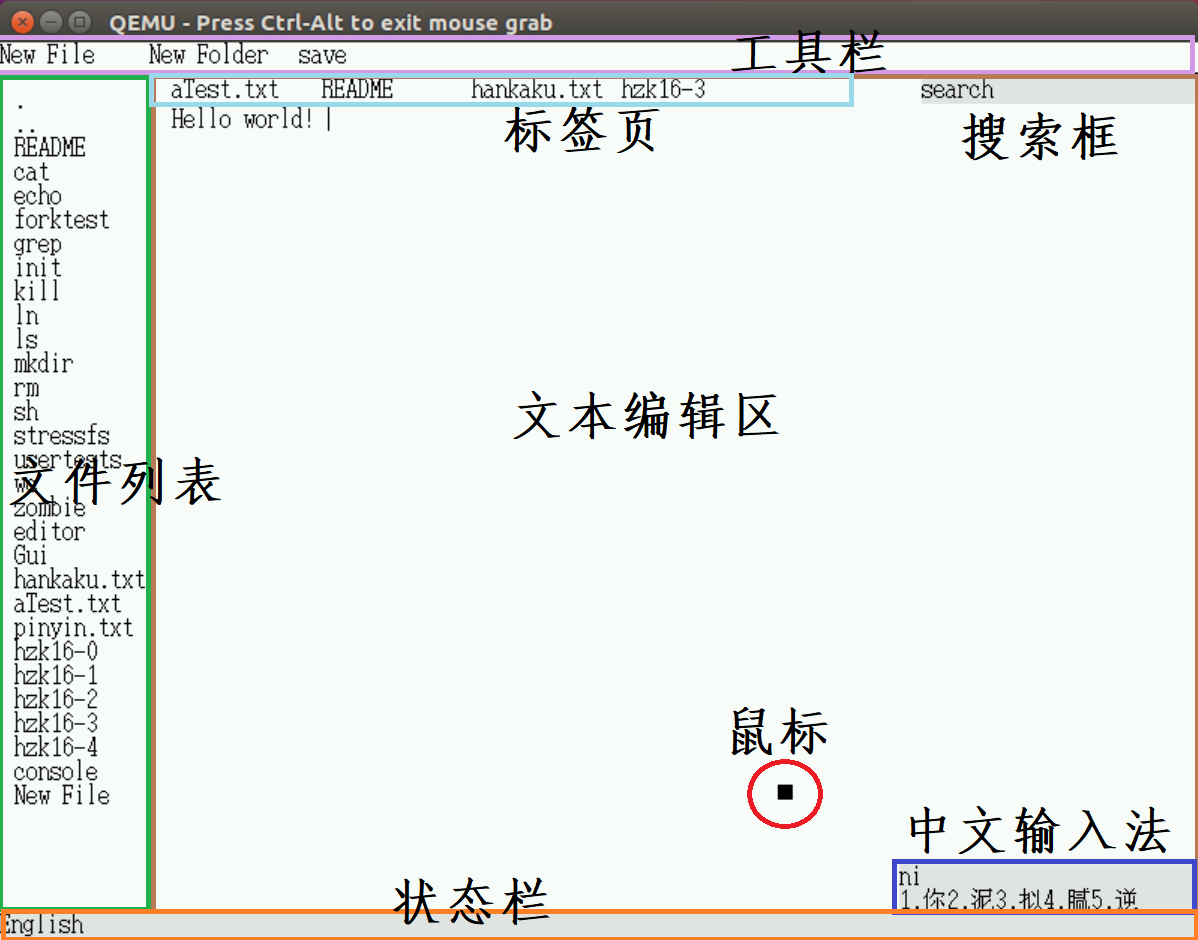
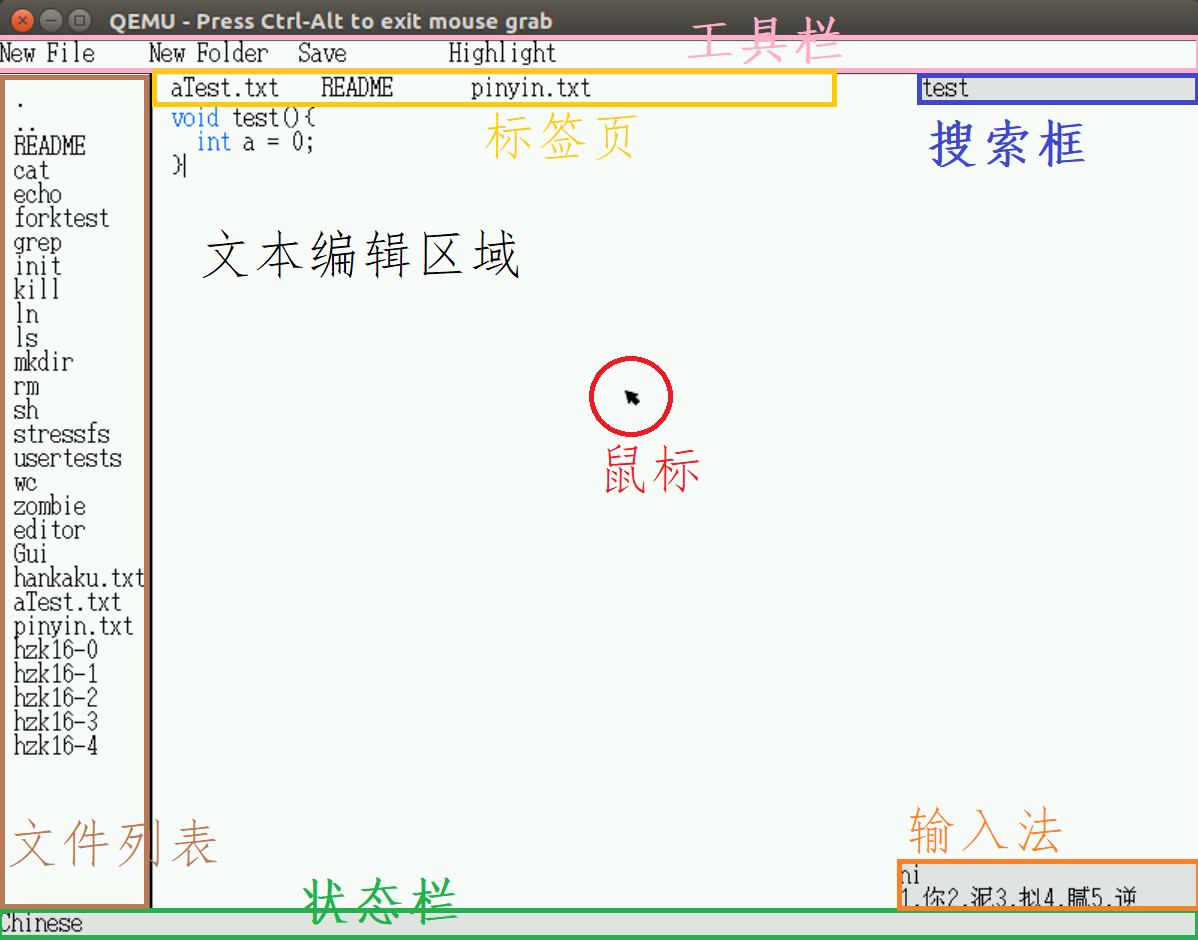
文档更新

diff --git a/操作系统大作业报告.md b/操作系统大作业报告.md
@@ -30,22 +30,26 @@
 - 支持搜索功能
 - 支持在左侧列出当前目录的所有文件以及新建文件
 - ~~支持命令行窗口~~
-- ~~代码高亮~~，中文支持、输入法
+- 代码高亮，中文支持、输入法
 - <u>状态栏显示</u>
 - <u>多个标签页的显示、切换、关闭</u>
 - <u>文件重命名、保存、删除</u>
 
+删除线表示相对于期中目标未完成、下划线表示增加内容
+
 ### 2.实现思路及功能介绍
+
+<img src="D:/ALishujuan/Grade3_1/操作系统/project/xv6-nx-editor/界面.png" alt="界面" style="zoom:50%;" />
 
 ##### （1）整体思路：
 
-底层：
+A. <font color='red'>底层：</font>
 
-GUI：
+B. GUI：自顶向下绘制界面，创建不同组件的结构体，并在其中维护parent指针进行组件间的联系。
+
+![image-20210110132022389](框架结构.png)
 
 
-
-<img src="D:/ALishujuan/Grade3_1/操作系统/project/xv6-nx-editor/界面.png" alt="界面" style="zoom:50%;" />
 
 ##### （2）功能介绍：
 
@@ -55,39 +59,108 @@ GUI：
 
 ###### ②鼠标操作（光标定位、选中文本）
 
+![鼠标支持](鼠标支持.png)
+
 ###### ③键盘操作（←、↑、↓、→、backspace）
 
 ###### ④检索
 
-触发：CTRL+F
+![image-20210110113527673](检索成功.png)
+
+![image-20210110113915289](检索失败1.png)
+
+![image-20210110114002058](检索失败2.png)
+
+触发：CTRL+F, 在输入框内输入检索字符，回车即从光标位置开始搜索。成功会在文本中标出匹配内容，失败则会在状态栏提示。
 
 ###### ⑤复制粘贴
 
 触发：CTRL+C、CTRL+V
 
+![image-20210110114213504](复制.png)
+
+![image-20210110114240319](粘贴.png)
+
+通过鼠标选中文本，CTRL+C即可复制，鼠标选中位置，CTRL+V即可粘贴。
+
 ###### ⑥状态栏显示
+
+![image-20210110114430601](状态栏.png)
+
+在页面的底部，会显示英文/中文输入法模式、高亮模式、检索失败提醒。
 
 ###### ⑦文件列表显示及文件相关操作（创建、保存、删除、重命名）
 
+<img src="文件相关.png" alt="文件相关" style="zoom:50%;" />
+
+文件列表显示：文件夹和文件，点击文件即可在文本编辑区打开文本，点击文件夹即可进入文件夹。
+
+按钮New File可以新建一个名为New File的文件，New Folder有类似操作。save按钮可以保存当前显示的文本内容。
+
+删除：点击列表文件名，键盘上按下Delete键即可删除。
+
+![重命名1](重命名1.png)
+
+![重命名2](重命名2.png)
+
+![重命名3](重命名3.png)
+
+![重命名4](重命名4.png)
+
+<center>将aText.txt重命名为changed.txt</center>
+
+重命名：右键点击文件名，即可输入，点击该文件名以外的区域即可保存。
+
 ###### ⑧标签页的显示、切换、关闭
 
-###### ⑨中文支持、输入法
+![标签页](标签页.png)
 
-触发：CTRL+P
+支持标签页打开多个文件窗口，Tab键可以切换，右键点击标签即可关闭。
+
+###### ⑨中文支持和输入法
+
+![输入法](输入法.png)
+
+触发：CTRL+P，<>进行左右翻页
+
+在开启输入法之后，键盘打字，输入数字可选择相应的汉字。
 
 ###### ⑩快捷键
 
-A. CTRL + C, CTRL + V
+该部分的功能在前面均已经介绍，在此只进行汇总。
 
-复制粘贴
+A. CTRL + C, CTRL + V ：复制粘贴
 
-B. TAB
+B. TAB：标签页切换
 
-C. CTRL+S
+C. CTRL+S：文件保存
 
-D. CTRL+F
+D. CTRL+F：检索
 
-E. CTRL + P
+E. CTRL + P：输入法
 
-## 三、分工
+F. Delete:文件删除
 
+###### &#9322;代码高亮
+
+![代码高亮](代码高亮.png)
+
+点击工具栏的Highlight按钮即可对代码进行高亮显示。
+
+## <font color='red'>三、难点实现介绍</font>
+
+#### 1.中文支持
+
+#### 2.输入法功能
+
+#### 3.文件操作
+
+#### 4.多文本框显示
+
+#### 5.代码高亮与搜索功能
+
+#### 6.追随光标自动翻页
+
+## 四、分工
+
+![image-20210110133044691](分工.png)
